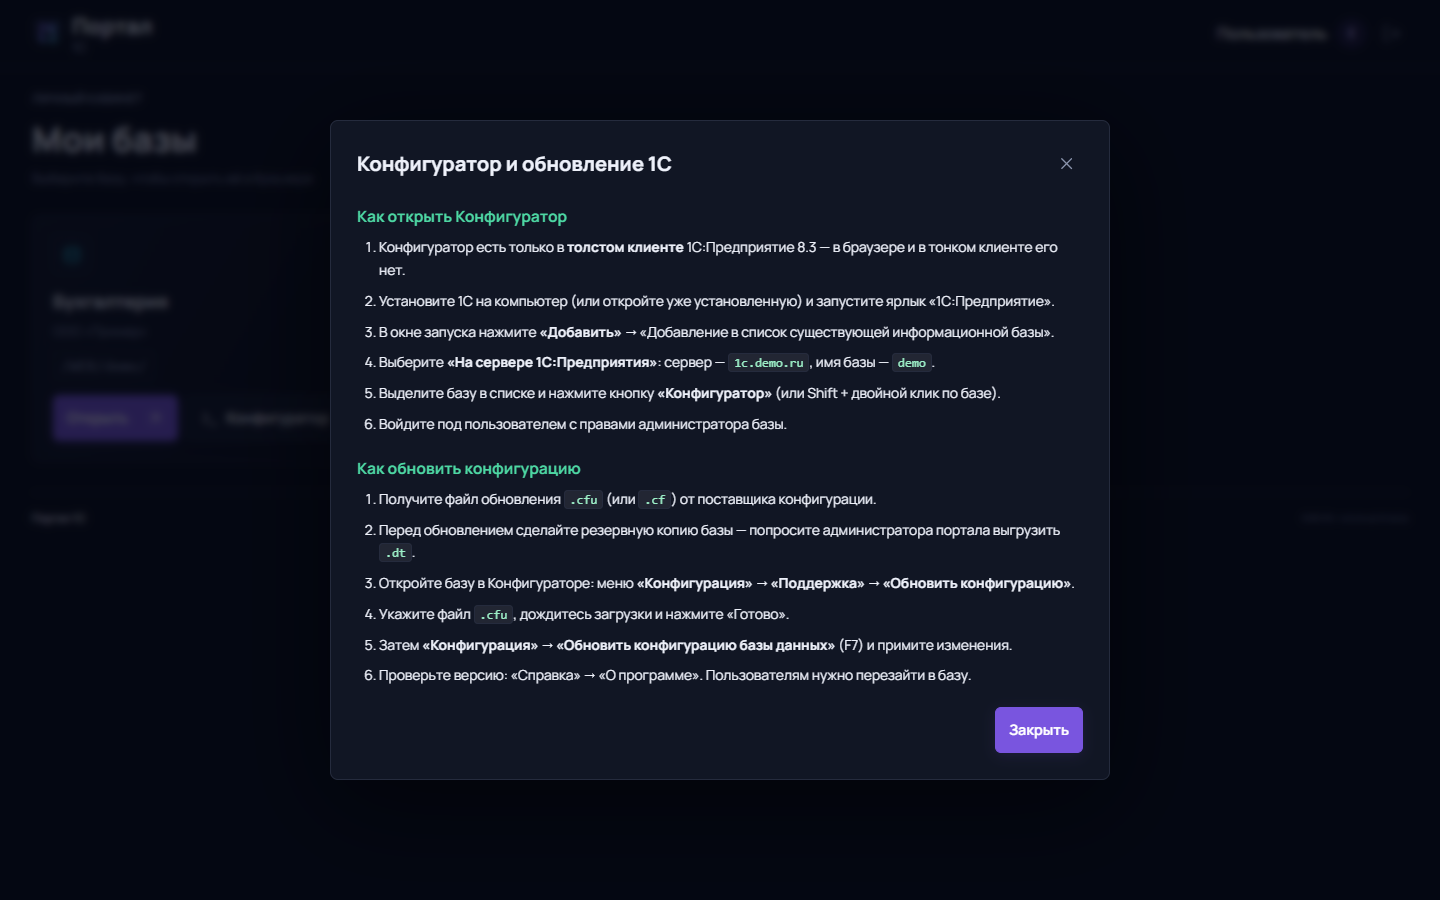
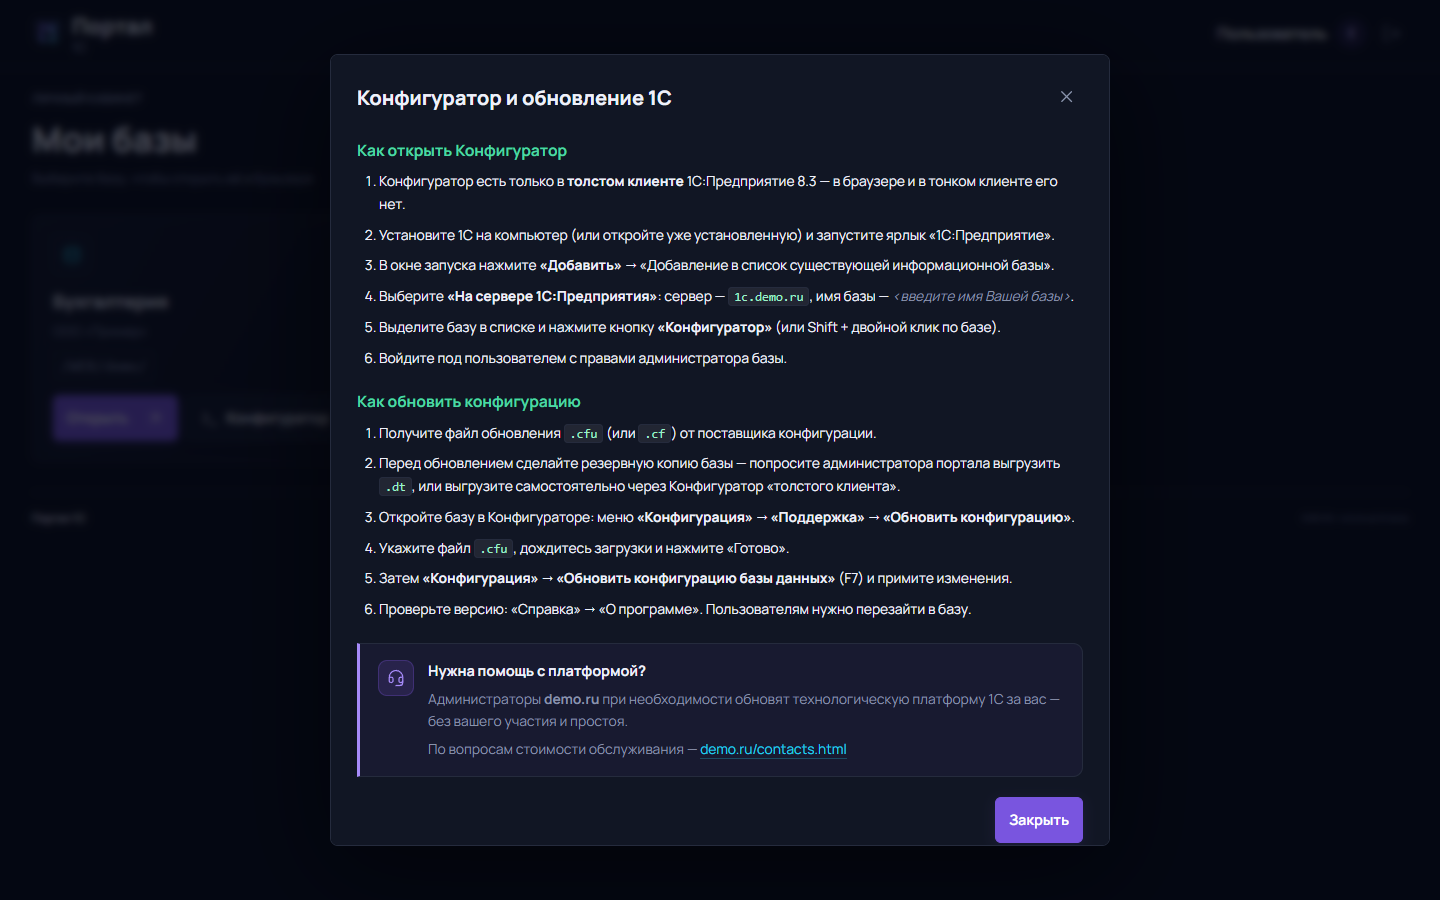
feat(modal): инструкция по Конфигуратору — уточнения и блок сопровождения
- в шаге про сервер: 1c.dgek.ru + подсказка «введите имя Вашей базы»
- резервная копия: добавить вариант самостоятельной выгрузки .dt из Конфигуратора
- новый блок «Нужна помощь с платформой?» со ссылкой на dgek.ru/contacts.html
- скриншоты перегенерированы (ПДн замаскированы)

Changed region(s): [[0.25, 0.1556, 0.75, 0.8711], [0.6875, 0.8711, 0.7812, 0.9644], [0.25, 0.0933, 0.4688, 0.1244]]

diff --git a/templates/portal.html b/templates/portal.html
@@ -59,7 +59,7 @@
       <li>Конфигуратор есть только в <strong>толстом клиенте</strong> 1С:Предприятие 8.3 — в браузере и в тонком клиенте его нет.</li>
       <li>Установите 1С на компьютер (или откройте уже установленную) и запустите ярлык «1С:Предприятие».</li>
       <li>В окне запуска нажмите <strong>«Добавить»</strong> → «Добавление в список существующей информационной базы».</li>
-      <li>Выберите <strong>«На сервере 1С:Предприятия»</strong>: сервер — <code>1c.dgek.ru</code>, имя базы — <code>{{ bases[0].slug if bases else 'dgek' }}</code>.</li>
+      <li>Выберите <strong>«На сервере 1С:Предприятия»</strong>: сервер — <code>1c.dgek.ru</code>, имя базы — <span class="help-placeholder">&lt;введите имя Вашей базы&gt;</span>.</li>
       <li>Выделите базу в списке и нажмите кнопку <strong>«Конфигуратор»</strong> (или Shift + двойной клик по базе).</li>
       <li>Войдите под пользователем с правами администратора базы.</li>
     </ol>
@@ -67,12 +67,21 @@
     <h3 class="help-title">Как обновить конфигурацию</h3>
     <ol class="help-list">
       <li>Получите файл обновления <code>.cfu</code> (или <code>.cf</code>) от поставщика конфигурации.</li>
-      <li>Перед обновлением сделайте резервную копию базы — попросите администратора портала выгрузить <code>.dt</code>.</li>
+      <li>Перед обновлением сделайте резервную копию базы — попросите администратора портала выгрузить <code>.dt</code>, или выгрузите самостоятельно через Конфигуратор «толстого клиента».</li>
       <li>Откройте базу в Конфигураторе: меню <strong>«Конфигурация» → «Поддержка» → «Обновить конфигурацию»</strong>.</li>
       <li>Укажите файл <code>.cfu</code>, дождитесь загрузки и нажмите «Готово».</li>
       <li>Затем <strong>«Конфигурация» → «Обновить конфигурацию базы данных»</strong> (F7) и примите изменения.</li>
       <li>Проверьте версию: «Справка» → «О программе». Пользователям нужно перезайти в базу.</li>
     </ol>
+
+    <div class="help-cta">
+      <div class="help-cta-icon"><i data-lucide="headset"></i></div>
+      <div>
+        <p class="help-cta-title">Нужна помощь с платформой?</p>
+        <p class="help-cta-text">Администраторы <strong>dgek.ru</strong> при необходимости обновят технологическую платформу 1С за вас — без вашего участия и простоя.</p>
+        <p class="help-cta-text muted">По вопросам стоимости обслуживания — <a href="https://dgek.ru/contacts.html" target="_blank" rel="noopener">dgek.ru/contacts.html</a></p>
+      </div>
+    </div>
 
     <div class="modal-footer"><button type="button" class="button primary" data-close>Закрыть</button></div>
   </dialog>

diff --git a/static/portal.css b/static/portal.css
@@ -20,6 +20,17 @@
 .help-list li{font-size:calc(11.5px*var(--fs));line-height:1.65;margin-bottom:8px;color:var(--text)}
 .help-list code,.modal-help code{font-family:Consolas,monospace;font-size:calc(10.5px*var(--fs));background:#ffffff12;border:1px solid var(--border);border-radius:4px;padding:1px 5px;color:#9df0c8}
 .modal-help .modal-footer{margin-top:20px;justify-content:flex-end}
+.help-placeholder{color:var(--muted);font-style:italic}
+.help-cta{display:flex;gap:14px;margin-top:22px;padding:16px 18px;border:1px solid var(--border);
+          border-left:3px solid var(--violet);border-radius:0 10px 10px 0;background:#8b5cf60f}
+.help-cta-icon{flex:0 0 auto;width:36px;height:36px;display:grid;place-items:center;border-radius:9px;
+               background:#8b5cf622;color:var(--violet);border:1px solid #8b5cf63d}
+.help-cta p{margin:0 0 6px}
+.help-cta-title{font-weight:700;font-size:calc(12px*var(--fs));color:var(--text)}
+.help-cta-text{font-size:calc(11.5px*var(--fs));line-height:1.6;color:var(--muted)}
+.help-cta-text:last-child{margin-bottom:0}
+.help-cta a{color:var(--cyan);border-bottom:1px solid #22d3ee44}
+.help-cta a:hover{text-decoration:none;border-bottom-color:var(--cyan)}
 .base-card{display:flex;flex-direction:column;gap:14px;border:1px solid var(--border);background:linear-gradient(120deg,var(--surface),var(--bg));border-radius:8px;padding:20px}
 .base-card-icon{width:38px;height:38px;display:grid;place-items:center;border:1px solid var(--border);border-radius:8px;background:var(--surface);color:var(--cyan)}
 .base-card-body h2{font-size:15px;margin-bottom:5px}
